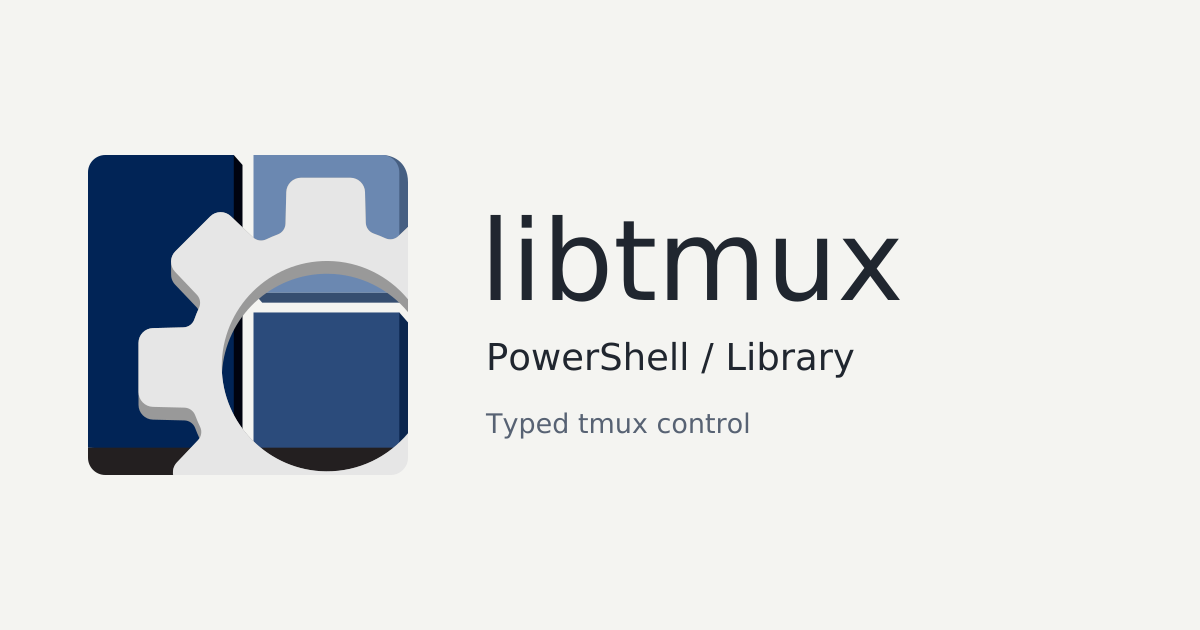
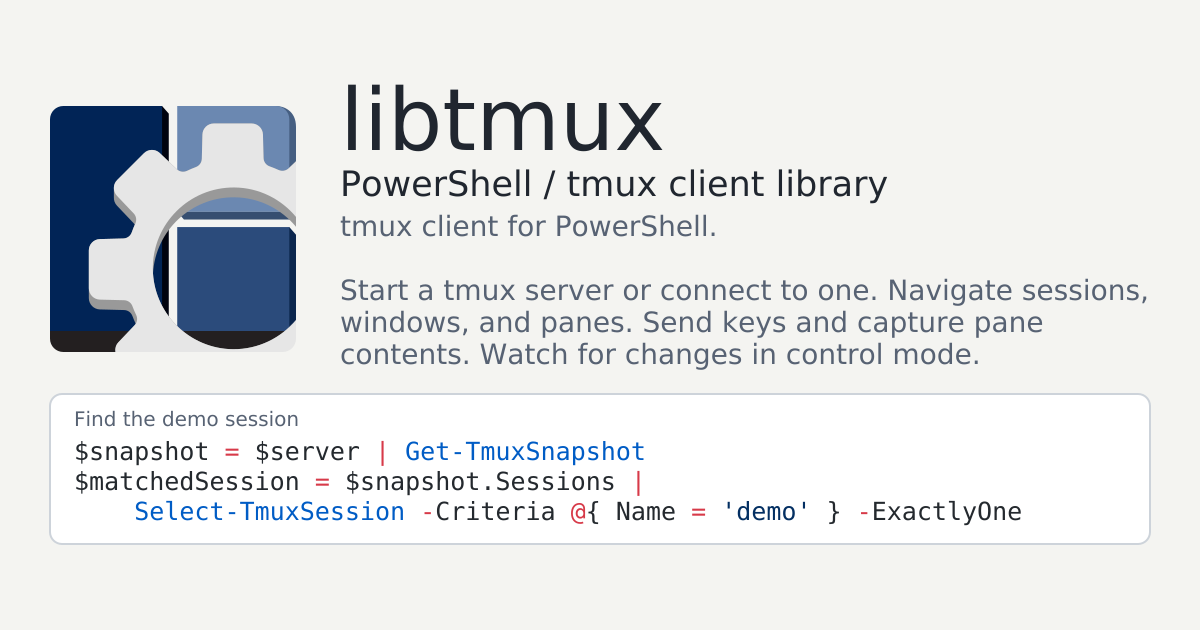
Docs(brand): Show a query on the sharing card
why: Sharing a library link should show how to query tmux in that
language.

what:
- Copy the reviewed sharing artwork and record its source revision

Changed region(s): [[0.0308, 0.1206, 0.9558, 0.8746]]

diff --git a/assets/README.md b/assets/README.md
@@ -12,3 +12,6 @@ symbol comes from the [upstream logo](https://github.com/modelcontextprotocol/mo
 Package-specific artwork sits beside its README where the package format
 supports it. `.github/social-preview.png` is the cog sharing card, ready to
 upload under the repository's **Settings → Social preview**.
+
+The sharing card comes from `assets/powershell/library/opengraph-light.png`
+at kit revision `c9688d9db25e4c522ff1255d0f3badaf27d780dd`.
